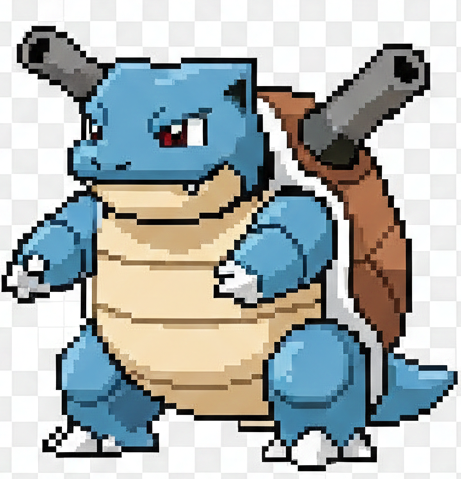
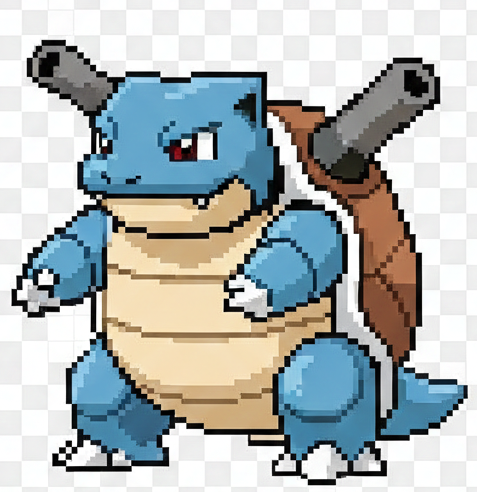
fix: use provided transparent PNGs, lower Blastoise, remove solid bg style

diff --git a/src/components/game/Sprite.tsx b/src/components/game/Sprite.tsx
@@ -20,11 +20,18 @@ export function Sprite({ spriteId, size = 180, animate = true, className }: Spri
       animate && "animate-float",
       className
     )}>
-      {/* 像素风阴影底座 */}
-      <div className="absolute -bottom-4 left-1/2 -translate-x-1/2 w-[90%] h-6 bg-black/10 rounded-full blur-[4px]" />
-      
+      {/* 像素风阴影底座 - 仅使用半透明阴影，避免影响透明PNG底图 */}
+      <div className="absolute -bottom-2 left-1/2 -translate-x-1/2 w-[60%] h-4 bg-black/20 rounded-full blur-[4px] z-[-1]" />
       <div className="relative">
         <Image 
+          src={imageSrc}
+          alt={spriteId}
+          width={size}
+          height={size}
+          className="object-contain drop-shadow-md"
+          unoptimized={true}
+          priority
+        />
           src={imageSrc}
           alt={spriteId}
           width={size}

diff --git a/src/components/game/Dashboard.tsx b/src/components/game/Dashboard.tsx
@@ -209,7 +209,9 @@ export function Dashboard({ initialRival }: { initialRival: Rival }) {
                 colorClass="bg-[#70c0a8]"
               />
           </div>
-          <div className="absolute bottom-[3%] left-[5%] md:left-[15%]">
+          <div className="absolute -bottom-4 left-[5%] md:left-[15%]">
+            <Sprite spriteId="user-blastoise" size={140} className="md:w-[200px] transform scale-x-[-1]" />
+          </div>
             <Sprite spriteId="user-blastoise" size={140} className="md:w-[200px] transform scale-x-[-1]" />
           </div>
 
